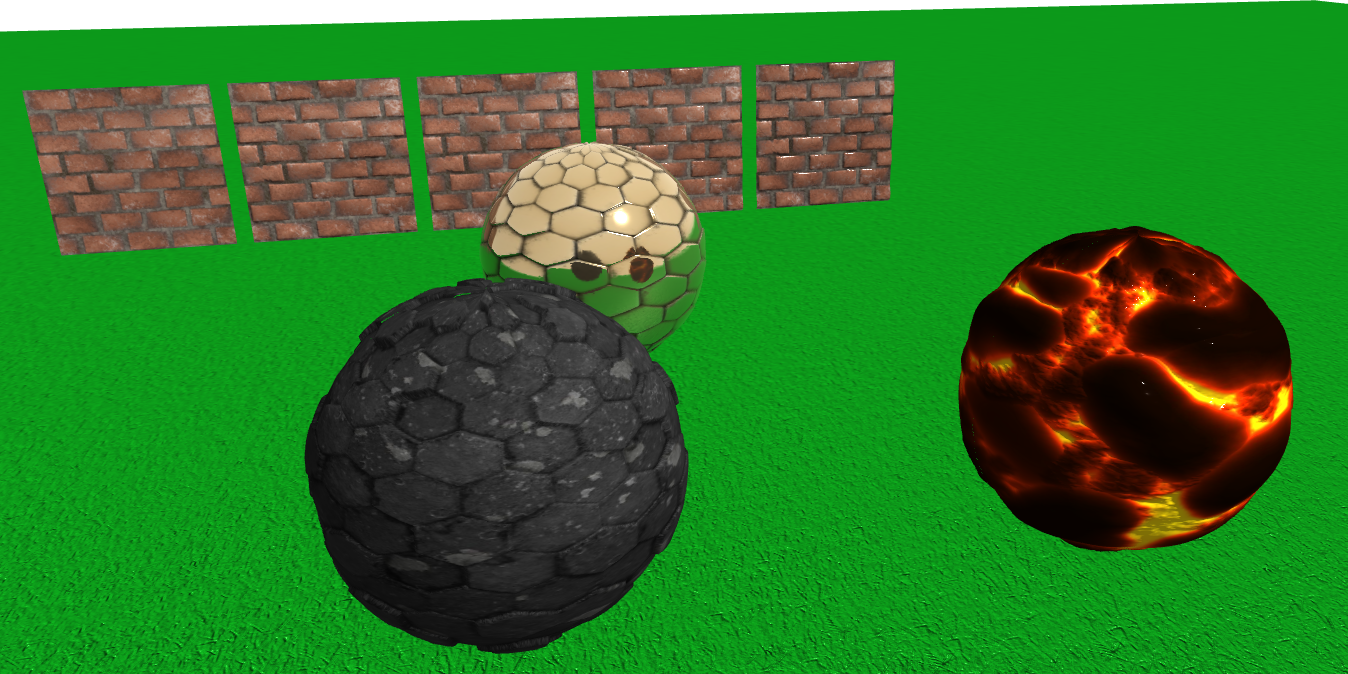
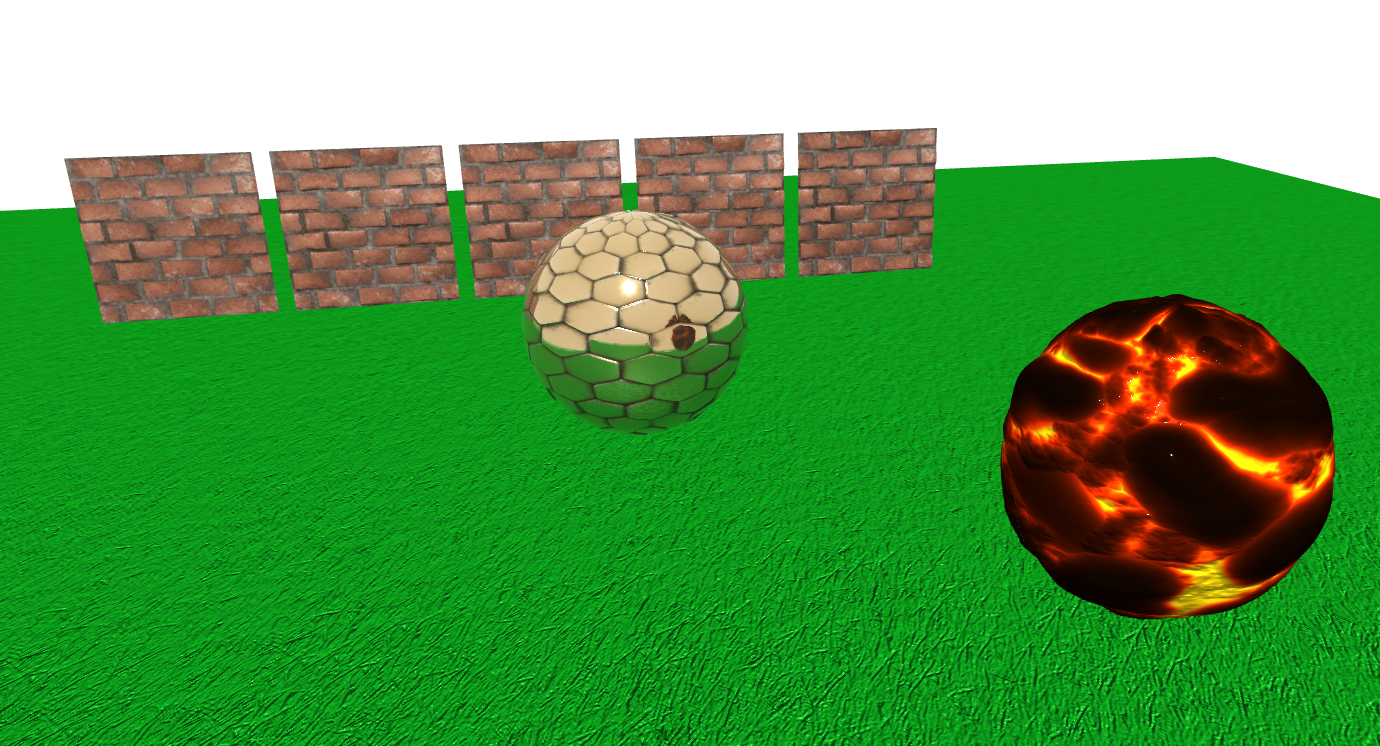
removed more stuff

diff --git a/src/index.ts b/src/index.ts
@@ -44,12 +44,6 @@ const brickWallheightMap = textureLoader.load("./Brick_Wall_017_height.png");
 const brickWallroughnessMap = textureLoader.load("./Brick_Wall_017_roughness.jpg");
 const brickWallambientOcclusionMap = textureLoader.load("./Brick_Wall_017_ambientOcclusion.jpg");
 
-const rocksHexagonbasecolor = textureLoader.load("./Rocks_Hexagons_001_basecolor.jpg");
-const rocksHexagonnormalMap = textureLoader.load("./Rocks_Hexagons_001_normal.jpg");
-const rocksHexagonheightMap = textureLoader.load("./Rocks_Hexagons_001_height.png");
-const rocksHexagonroughnessMap = textureLoader.load("./Rocks_Hexagons_001_roughness.jpg");
-const rocksHexagonambientOcclusionMap = textureLoader.load("./Rocks_Hexagons_001_ambientOcclusion.jpg");
-
 const lavabasecolor = textureLoader.load("./Lava_005_COLOR.jpg");
 const lavanormalMap = textureLoader.load("./Lava_005_NORM.jpg");
 const lavaheightMap = textureLoader.load("./Lava_005_DISP.png");
@@ -113,12 +107,6 @@ sphere1.position.x = -3
 sphere1.position.z = 5
 sphere1.add(cubeCamera)
 scene.add(sphere1)
-
-const sphere4 = new THREE.Mesh(new THREE.SphereGeometry(1, 512, 512), new THREE.MeshStandardMaterial({ map: rocksHexagonbasecolor, normalMap: rocksHexagonnormalMap, displacementMap: rocksHexagonheightMap, displacementScale: 0.1, roughnessMap: rocksHexagonroughnessMap, roughness: 1, aoMap: rocksHexagonambientOcclusionMap }))
-sphere4.position.y = 3
-sphere4.position.x = -4
-sphere4.position.z = 9
-scene.add(sphere4)
 
 const sphere5 = new THREE.Mesh(new THREE.SphereGeometry(1, 512, 512), new THREE.MeshStandardMaterial({ color: 0xffff66, map: lavabasecolor, normalMap: lavanormalMap, displacementMap: lavaheightMap, displacementScale: 0.1, roughnessMap: lavaroughnessMap, roughness: 1, aoMap: lavaambientOcclusionMap, emissiveMap: lavaemissive }))
 sphere5.position.y = 3
